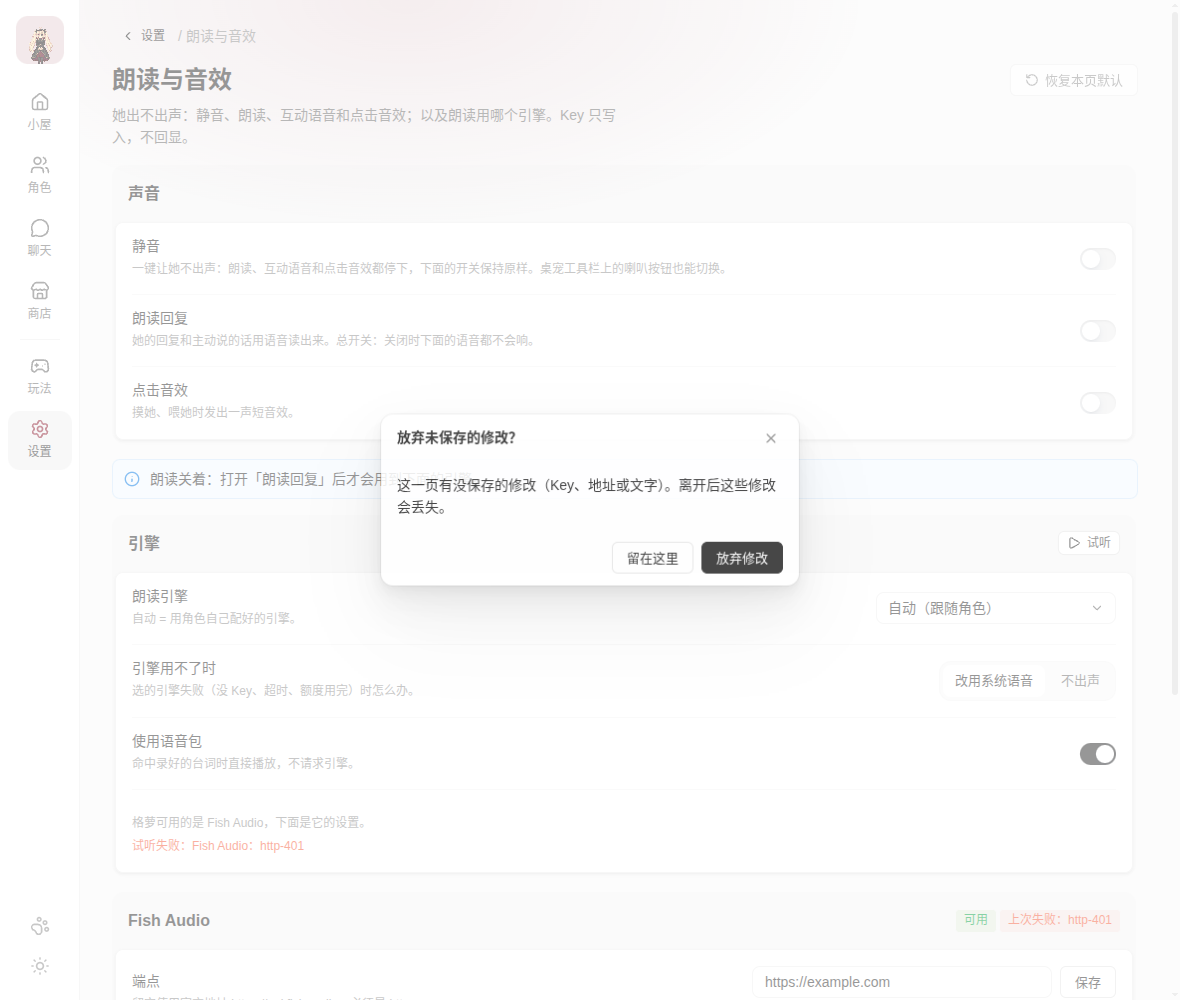
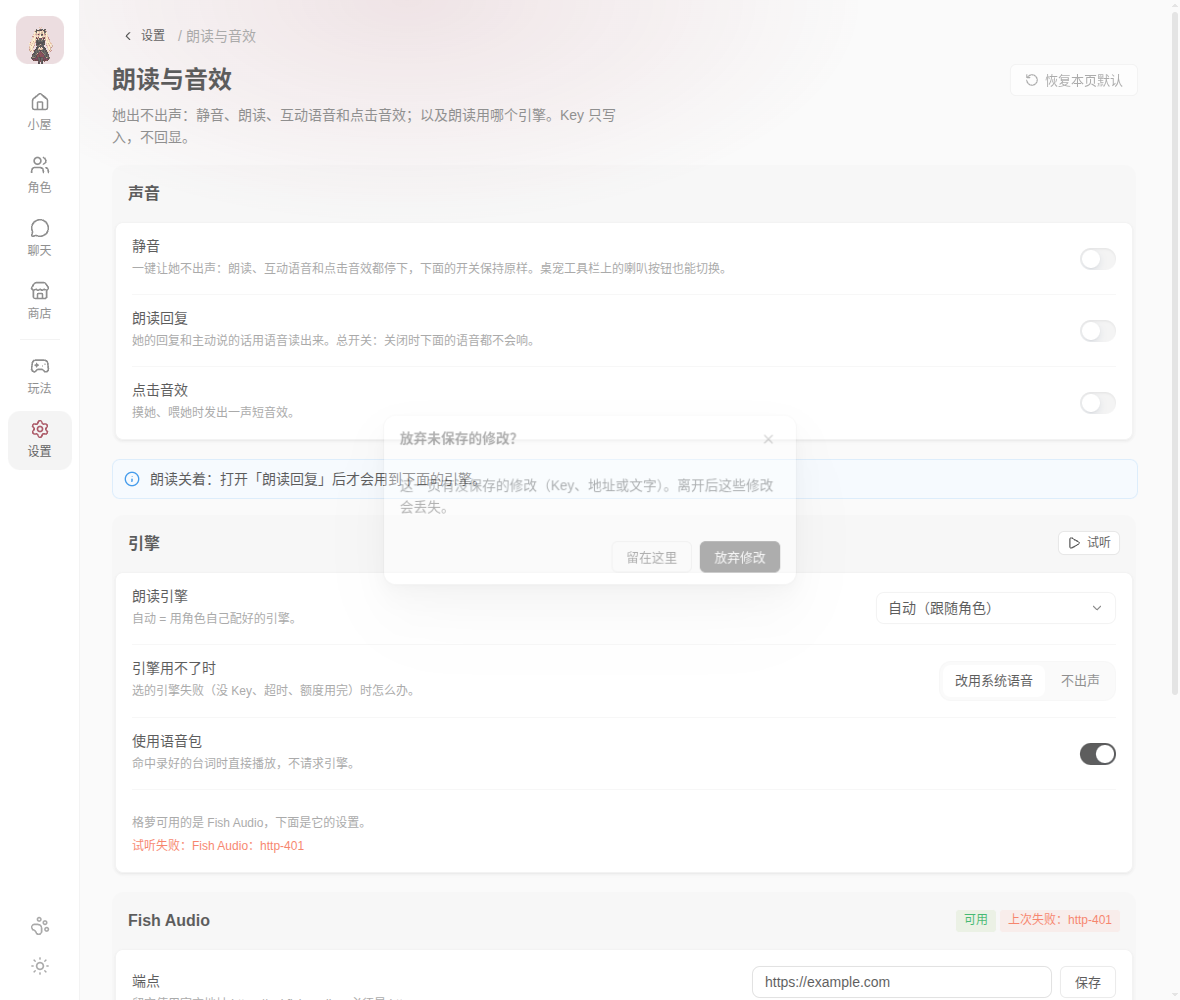
✅ test(e2e): 实施包 A 第 2 轮——HEAD 上重跑验证，A16「仅重置本地」断言适配 askAsync 的 Modal 关闭动画，重拍 A-after 截图（T-2821）
- A16 (PG-03, C-15 / S-7)：C 包 901fa71 把 askAsync 改由 @lobehub/ui Modal 渲染，成功后有淡出动画；
  A17 末尾改为等弹窗 hidden 再断言不可见，「重置完成」截图挪到断言之后；reset-dialog 截图等淡入结束
- 03-changes A-D3 标为已由 C 第 2 轮补齐；新增 A.6：npm test 758/0/1、tsc 0、build:admin ✓、
  lint-lobe 0 FAIL、e2e admin 29/29、admincov 13/13、frontslim 19/19（HEAD a067563）

diff --git a/e2e/run.js b/e2e/run.js
@@ -10413,8 +10413,10 @@ async function adminScenario() {
       await go('/reset');
       await admin.click('[data-release="local"]');
       await admin.getByRole('dialog').getByText('仅重置本地？').waitFor({ timeout: 5000 });
+      await admin.waitForTimeout(400); // A16: askAsync's Modal fades in (C round 2, S-7) — shoot it settled, not mid-fade
       await ashot('reset-dialog');
       await admin.getByRole('dialog').getByRole('button', { name: '先不了' }).click();
+      await admin.getByText('仅重置本地？').waitFor({ state: 'hidden', timeout: 5000 }).catch(() => {});
       await ashot('reset');
       return `safety: adult + local; about: theme, quit, no dup folders; update → 「${upd.trim()}」; reset dialog shown, 先不了 closes it`;
     }, () => admin);
@@ -10456,8 +10458,11 @@ async function adminScenario() {
         await a2.click('[data-release="local"]');
         await a2.getByRole('dialog').getByRole('button', { name: '仅重置本地' }).click();
         await a2.waitForFunction(() => [...document.querySelectorAll('li, div')].some((el) => el.childElementCount < 6 && /已重置本地：进度和聊天记录已清除/.test(el.textContent || '')), null, { timeout: 15000 });
+        // A16 (PG-03): the dialog closes only after main answered ok. askAsync renders its own Modal since C's round 2
+        // (S-7), whose close animation keeps the title in the DOM for a moment — wait for it to go, don't count at once
+        await a2.getByText('仅重置本地？').waitFor({ state: 'hidden', timeout: 5000 }).catch(() => {});
+        assert.equal(await a2.getByText('仅重置本地？').isVisible(), false, 'the dialog closed only after it worked');
         await a2.screenshot({ path: path.join(SHOTS, 'A-after-reset-done.png') });
-        assert.equal(await a2.getByText('仅重置本地？').count(), 0, 'the dialog closed only after it worked');
         return `仅重置本地 → toast 已重置本地 (dialog closed after main answered); after restart: proactive=${JSON.stringify(st.proactive)} characterId=grok-classic; hardware acceleration ${before} → ${after} (pendingRestart [])`;
       } finally {
         await again.app.close().catch(() => {});

diff --git a/docs/admin-audit/03-changes.md b/docs/admin-audit/03-changes.md
@@ -47,7 +47,7 @@
 | --- | --- | --- | --- |
 | A-D1 | A07 / §1.4：主题、硬件加速放进「设置窗口」卡 | 卡名改为「显示」 | 硬件加速影响的是桌宠窗口的绘制，放在「设置窗口」卡名下是口径错误（W-03 专名与口径一致） |
 | A-D2 | S-5：需重启的项弹 `toast.warning`（id `restart`）+「立即重启」 | 不另弹 toast，用 Shell 已有的常驻「X：重启应用后生效 · 立即重启」横幅 + 内联「已保存」 | 横幅本来就在且原地刷新，再弹一条 toast 是同一件事说两遍（W-07） |
-| A-D3 | S-7 / C-15：提交期间弹窗不可关闭 | `confirmModal` 的确认按钮会进入 loading，但「取消」不能被禁用；提交中点取消会关窗，请求仍执行，结果仍按 toast 报告 | `@lobehub/ui` `confirmModal` 不提供 cancel 的禁用属性；不自建 Modal 以遵守「原子组件用 @lobehub/ui」。后续若上游支持 `cancelButtonProps` 再补 |
+| A-D3 | S-7 / C-15：提交期间弹窗不可关闭 | **第 2 轮已补齐**：C 包 `901fa71` 把 `askAsync` 改成 `@lobehub/ui` `Modal` 渲染（`AskHost`），执行期间「取消」禁用、✕ / Esc / 点遮罩都关不掉。A 包的调用方（重置与放生、清空语音缓存、换令牌）无需改动 | 第 1 轮时 `confirmModal` 不能禁用取消；改为 `Modal`（仍是 @lobehub/ui 原子组件）后满足 S-7。A 在第 2 轮修正了 e2e 断言以适配新 Modal 的关闭动画（见 A.6） |
 | A-D4 | A19：「导入语音包…」 | 未做（方案 §4 PG-08 已标「部分不做」） | 需要主进程新增文件复制与校验 IPC，不影响 IA；本期做了空态说明 +「打开文件夹」 |
 | A-D5 | A06 插个嘴页、A04「重新开始对话」、A18「退出应用」 | 页面组件 / 聊天页 ⋯ 菜单 / 桌面上的她移除退出由 C 包完成；A 负责 schema、路由、关于与数据的退出按钮 | 与 C 包在同一工作区协作，按 02-plan §5.1 文件归属避免两个包改同一函数 |
 | A-D6 | A08 三个按钮直达标签 | A 写好链接（`/characters/:id/affection|looks|model`），落到对应标签依赖 B02 的详情路由 | 02-plan §5.1 顺序：A08 依赖 B02 |
@@ -108,6 +108,32 @@ PASS  [admin] A17 persisted across a restart: values read back from settings.jso
 - `160a394` 在 amend 时**误带入了实施包 B 当时已暂存的源码**（`pages/Characters.tsx`、`pages/character/*`、`roster-model.ts`、`stage/*`、`useHashPath.ts`、`test/roster-model.test.js`）。这些改动的作者与说明归 B 包（见 B 小节与 `baa4b2f`）；三个包已商定不改写历史。
 - 共享文件只提交了 A 的部分：`e2e/run.js`（admin 场景断言、`adminRelease` 改走 `#/reset`、admincov B12 展开「其他引擎」、frontslim F12 / F14 / F16 / F17）、`test/admin-console.test.js`（schema 断言）、`src/core/admin-coverage.js`（隐私与安全 / 关于与数据的落位文案）；`Pages.tsx` 中 `ProactivePage` / `BehaviorPage` 归 C。
 - 依赖：A 引用 B 的 `roster-model.ts`（`resolveCharacter` / `lookName` / `groupRoster` / `detailHref`）与 C 的 `InterjectPage`。
+
+
+### A.6 第 2 轮：在当前分支 HEAD 上重跑全部验证
+
+> 背景：第 1 轮的验证跑在 A + B + C 当时的隔离副本上。此后 B、C 各提交了第 2 轮（`4b119be`、`34105f6`、`cf690a5`、`bf3e238`、`901fa71`、`a067563`），其中 `901fa71` 改了 A 的共享件 `askAsync`。本轮在 `a067563` 上重跑，原始输出见 `A-r2-verify.txt`、`A-after-e2e-*.txt`。
+
+**本轮改动（仅 `e2e/run.js` 中 A 写的断言，产品代码无变化）**
+
+| 位置 | 问题 | 改动 |
+| --- | --- | --- |
+| admin 场景 A17 末尾「仅重置本地」 | PG-03（A16） | 在 HEAD 上首跑失败：`the dialog closed only after it worked 1 !== 0`。原因是 `askAsync` 改由 `Modal` 渲染，成功后关闭有淡出动画，旧断言在 toast 出现的同一刻数 DOM。产品行为正确（主进程返回成功后才关）。改为等标题 `hidden`（5s）后再断言不可见；「重置完成」截图挪到断言之后，拍到弹窗已关的状态 |
+| AIA5 / 截图 `reset-dialog`、`reset` | PG-03（A16） | 弹窗出现后等 400ms 再截图（之前拍到淡入半透明），点「先不了」后等弹窗隐藏再拍 `reset` |
+
+**验证结果（HEAD `a067563` + 上述断言修正）**
+
+| 验证 | 命令 | 结果 |
+| --- | --- | --- |
+| 单元测试 | `npm test` | **758 pass / 0 fail / 1 skipped**（759 项），exit 0 |
+| 类型检查 | `npx tsc -p admin` | exit 0 |
+| 构建 | `npm run build:admin` | `✓ built in 1.43s`，`src/admin-ui/` 已更新（被 gitignore） |
+| lobe-design lint | `node .agents/skills/lobe-design/scripts/lint-lobe.mjs` Shell / ConsoleApp / store / SettingsForm / fields / Home / Hub / Pages / common/index.tsx | **0 FAIL**，1 WARN（同 A.4 的 `LOBE-MULTI-PRIMARY`，Pages.tsx 三个 primary 分属不同页面 / 互斥状态） |
+| e2e admin | `unset ELECTRON_RUN_AS_NODE; xvfb-run -a node e2e/run.js admin` | 修正前 28/29（A17 见上）；修正后 **29/29 PASS** |
+| e2e admincov | `xvfb-run -a node e2e/run.js admincov` | **13/13 PASS** |
+| e2e frontslim | `xvfb-run -a node e2e/run.js frontslim` | **19/19 PASS** |
+
+**截图**：`docs/admin-audit/screenshots/A-after-*.png` 共 31 张已用本轮 admin 场景的输出全部重新覆盖（与 A.3 表格同名），反映 HEAD 的实际界面；`A-before-*` 仍为基线 `1fe0a5e` 所拍，未变。
 
 ---
 
